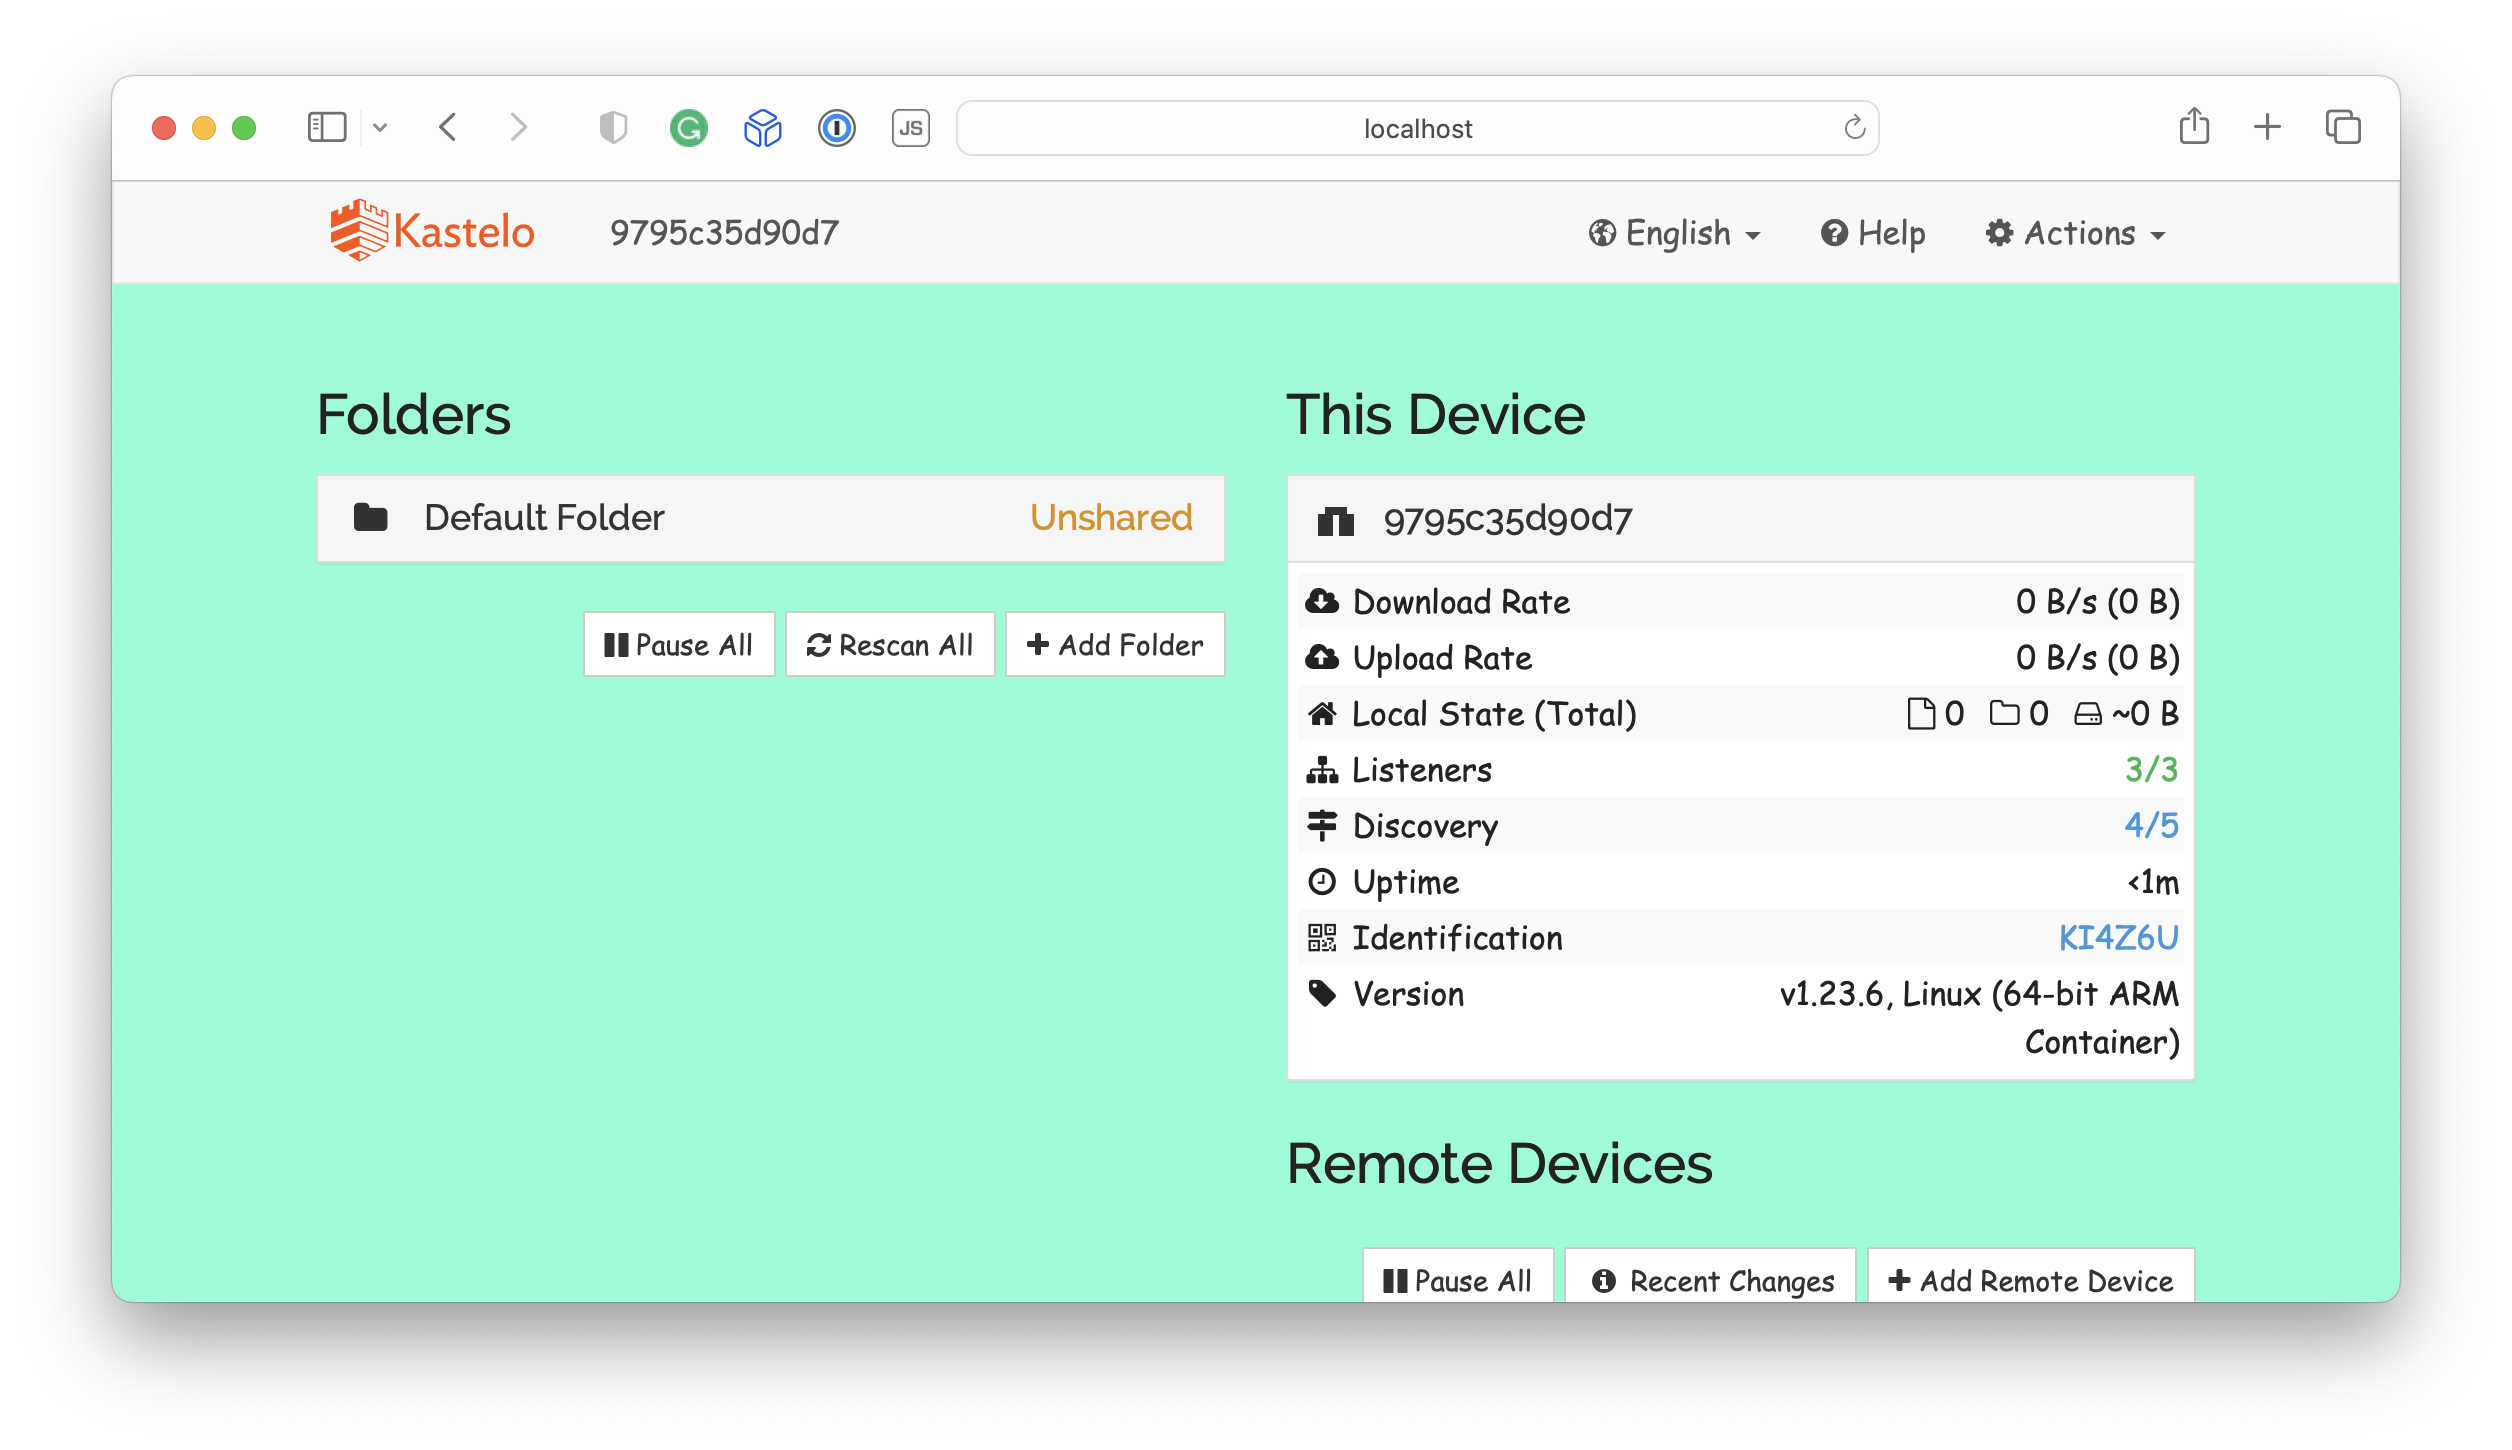
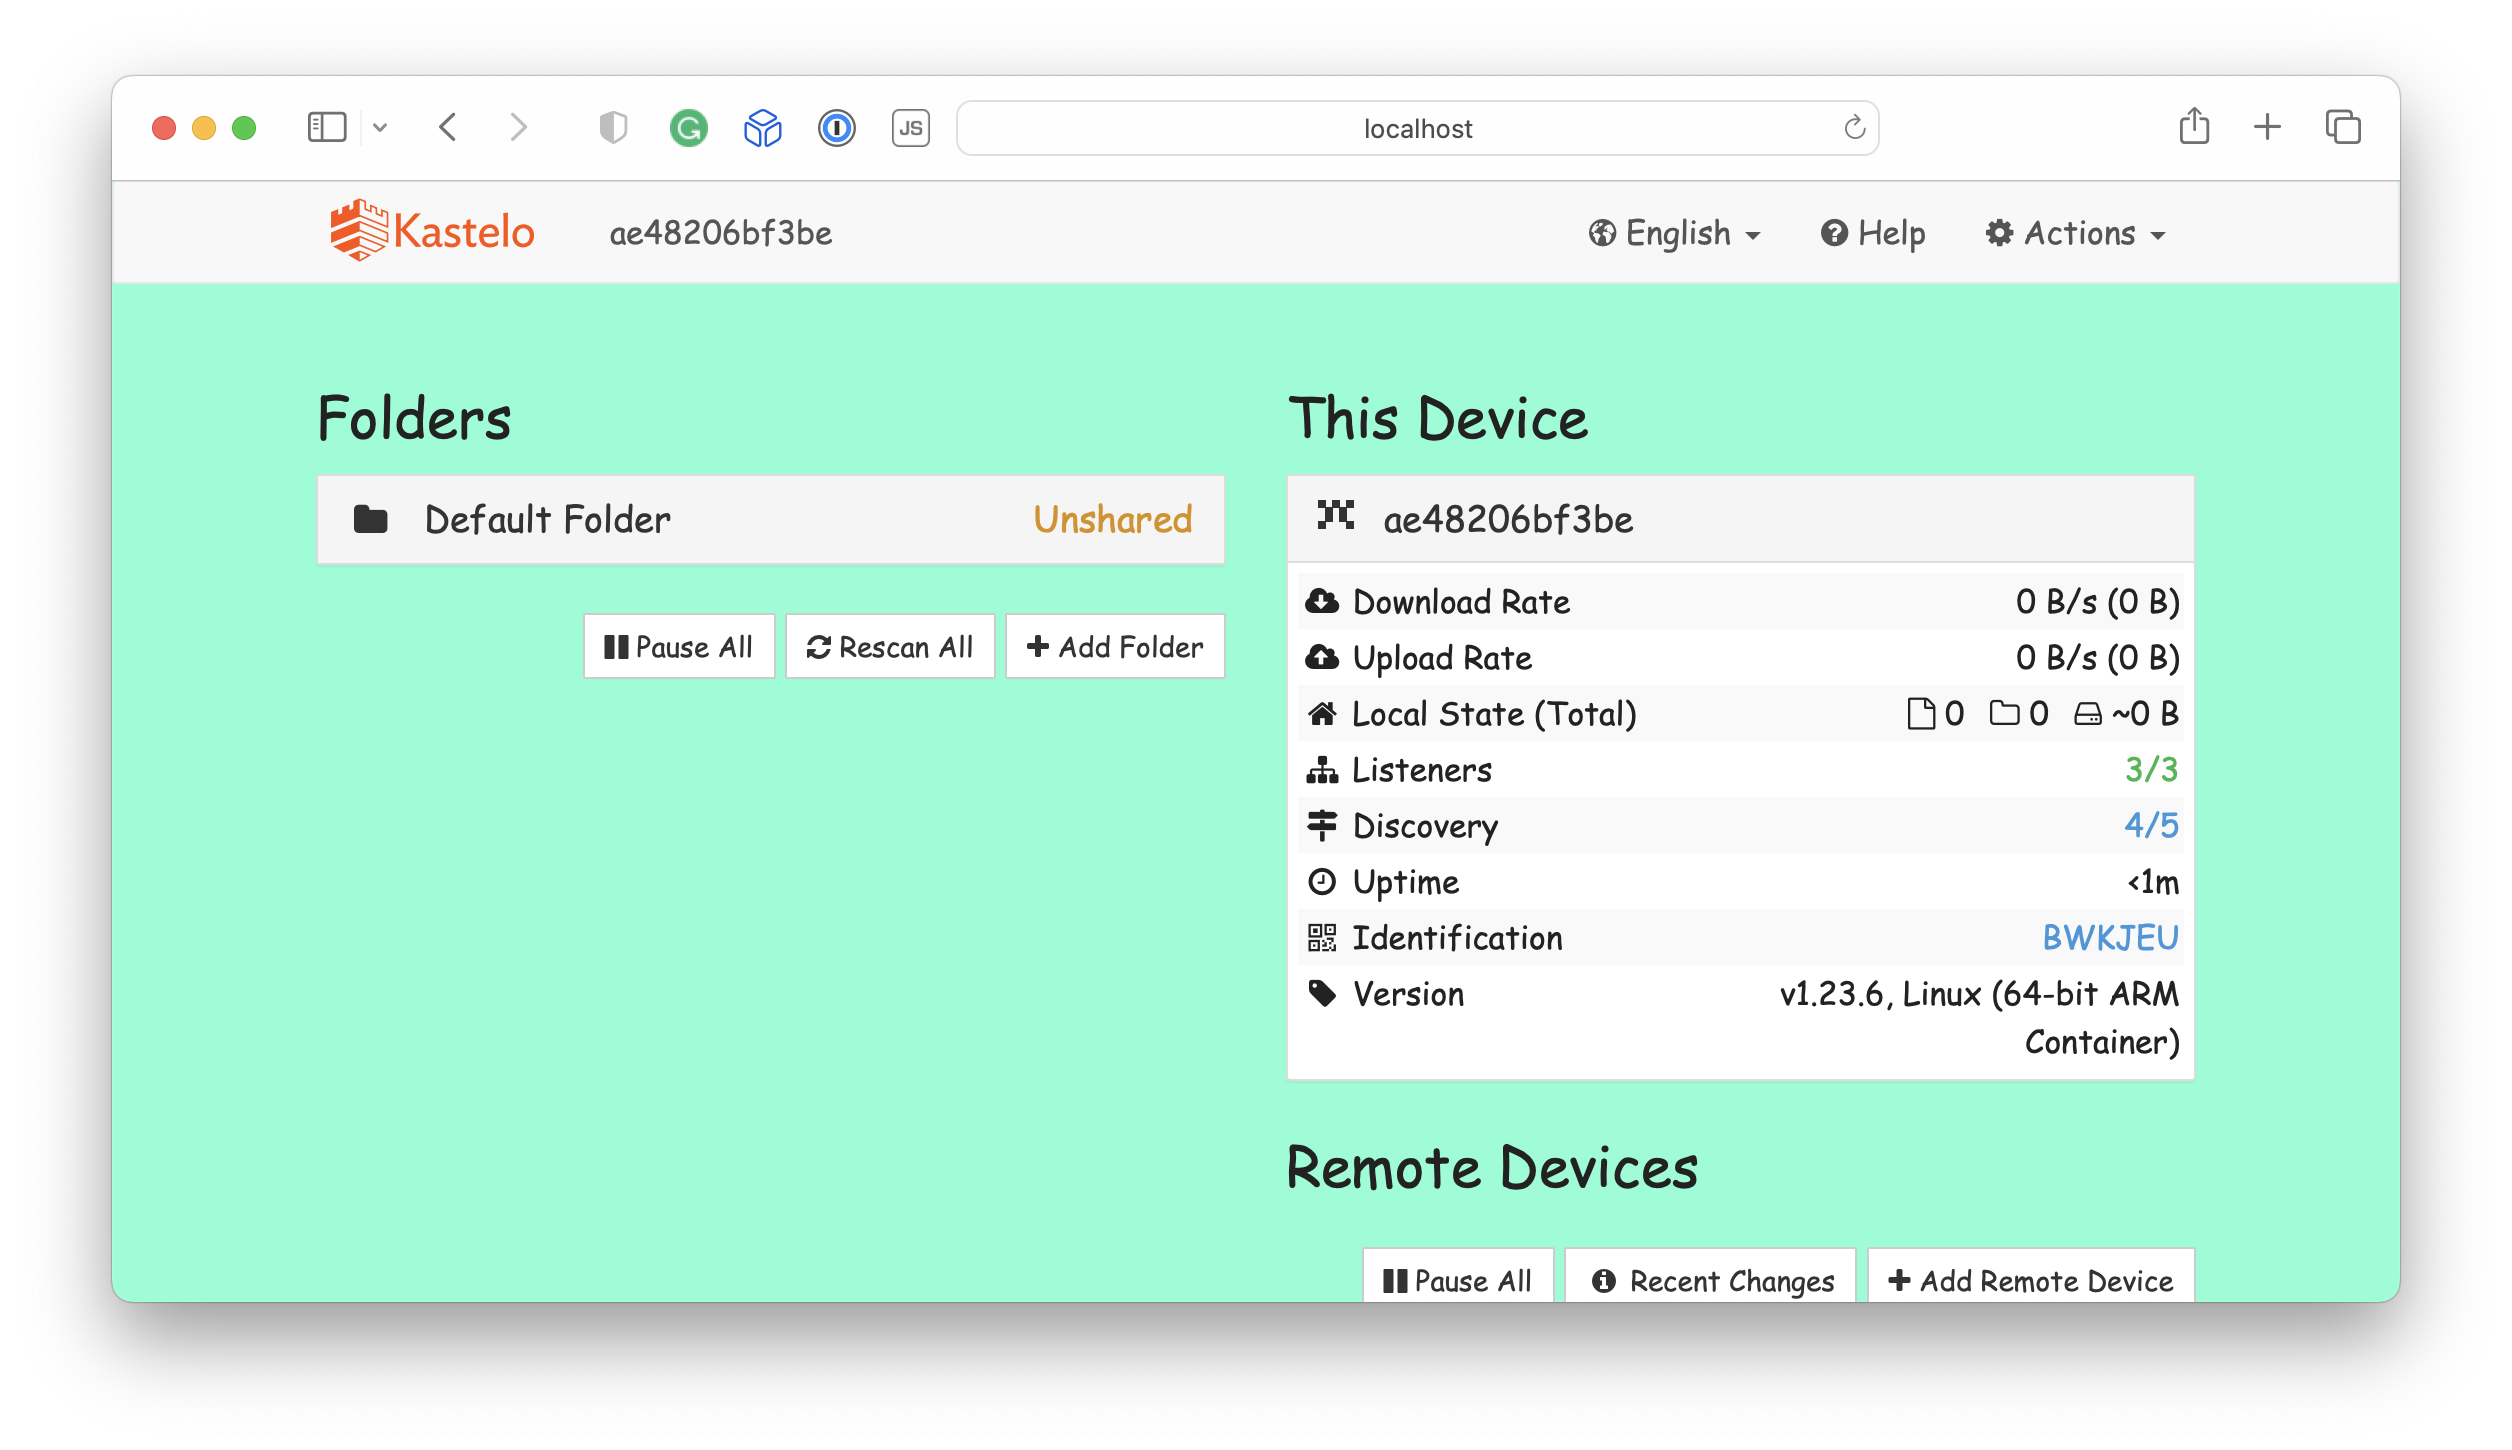
Better branding

diff --git a/default/assets/css/theme.css b/default/assets/css/theme.css
@@ -6,7 +6,9 @@ be retained to maintain auto switching dark mode. */
 
 /* Here we add custom overrides as required */
 
-body {
+body, h1, h2, h3, h4, h5 {
     font-family: Comic Sans MS, Comic Sans, cursive;
+}
+body {
     background-color: aquamarine;
 }
